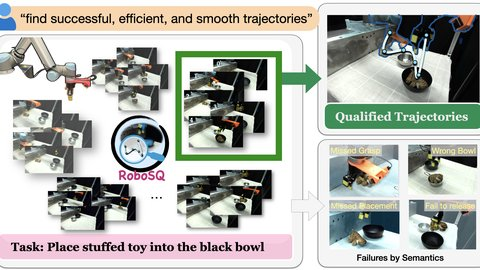
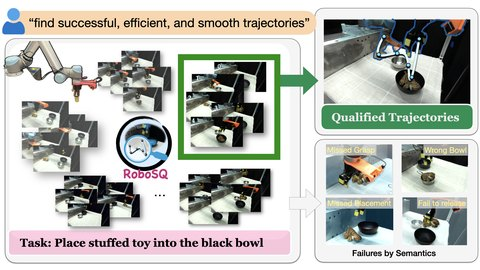
Fix email link; stop cropping the RoboSQ and MOTORCYCLE thumbnails
The email anchor now gets a real mailto: href set on load instead of
intercepting the click and assigning window.location, which could be blocked
and broke middle-click and copy-address. The address is still absent from the
served HTML.

RoboSQ is scaled to fit the 16:9 box rather than cropped. MOTORCYCLE swaps the
square four-panel teaser for the routing/guiding figure from page 4, whose 1.97
ratio nearly fills the box. Both figures sit on white, so the padding is
invisible and nothing is cut off.

diff --git a/index.html b/index.html
@@ -447,13 +447,17 @@
 </div>
 
 <script>
-  // Email address is not present in the page source; it is assembled at runtime
-  // so that crawlers harvesting raw HTML find nothing to scrape.
+  // Email address is not present in the page source; the real mailto: href is
+  // set at runtime so that crawlers harvesting raw HTML find nothing to scrape.
+  // Setting href (rather than intercepting the click and assigning
+  // window.location) keeps these behaving like ordinary links: middle-click,
+  // open-in-new-tab and "copy email address" all work.
   document.querySelectorAll("a.js-email").forEach(function (a) {
-    a.addEventListener("click", function (ev) {
-      ev.preventDefault();
-      window.location.href = "mailto:" + atob(a.dataset.e);
-    });
+    try {
+      a.href = "mailto:" + atob(a.getAttribute("data-e"));
+    } catch (err) {
+      /* leave the href as-is if decoding fails */
+    }
   });
 
   // Respect a reduced-motion preference: hold the poster frame instead of looping.
